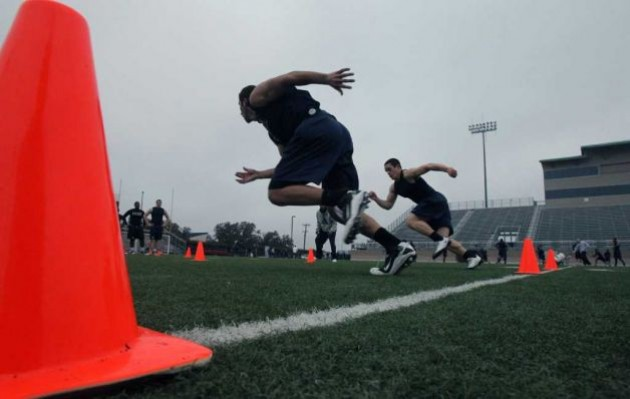
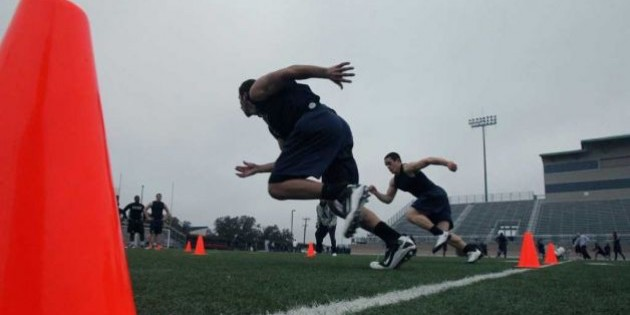
resize images

diff --git a/client/src/components2/carousel/carousel.js b/client/src/components2/carousel/carousel.js
@@ -7,24 +7,24 @@ const Slide = (props) =>
 <div>
   <Carousel>
     <Carousel.Item>
-      <img width={1000} height={500} alt="Weight Room" src={require('../../IMG/fball1.jpg')}/>
+      <img width={1000} height={500} alt="training1" src={require('../../IMG/fball1-edit.jpg')}/>
       <Carousel.Caption>
         <h3>Do you need a personal trainer?</h3>
         <p>We got you covered!</p>
       </Carousel.Caption>
     </Carousel.Item>
     <Carousel.Item>
-      <img width={1000} height={500} alt="Weight Room #2" src={require('../../IMG/pt1.jpg')}/>
+      <img width={1000} height={500} alt="training2" src={require('../../IMG/gym-training.jpg')}/>
       <Carousel.Caption>
         <h3>Login,</h3>
-        <p>do the baseline test & meet your trainer bot then start getting results!.</p>
+        <p>do the baseline test & meet your trainer bot then start getting results!</p>
       </Carousel.Caption>
     </Carousel.Item>
     <Carousel.Item>
-      <img width={1000} height={500} alt="900x500" src={require('../../IMG/pt2.jpg')}/>
+      <img width={1000} height={500} alt="training3" src={require('../../IMG/pt2-edit.jpg')}/>
       <Carousel.Caption>
         <h3>Use our trainers and our great tips!</h3>
-        <p>connect with your training tracker today!.</p>
+        <p>connect with your training tracker today!</p>
       </Carousel.Caption>
     </Carousel.Item>
   </Carousel>
